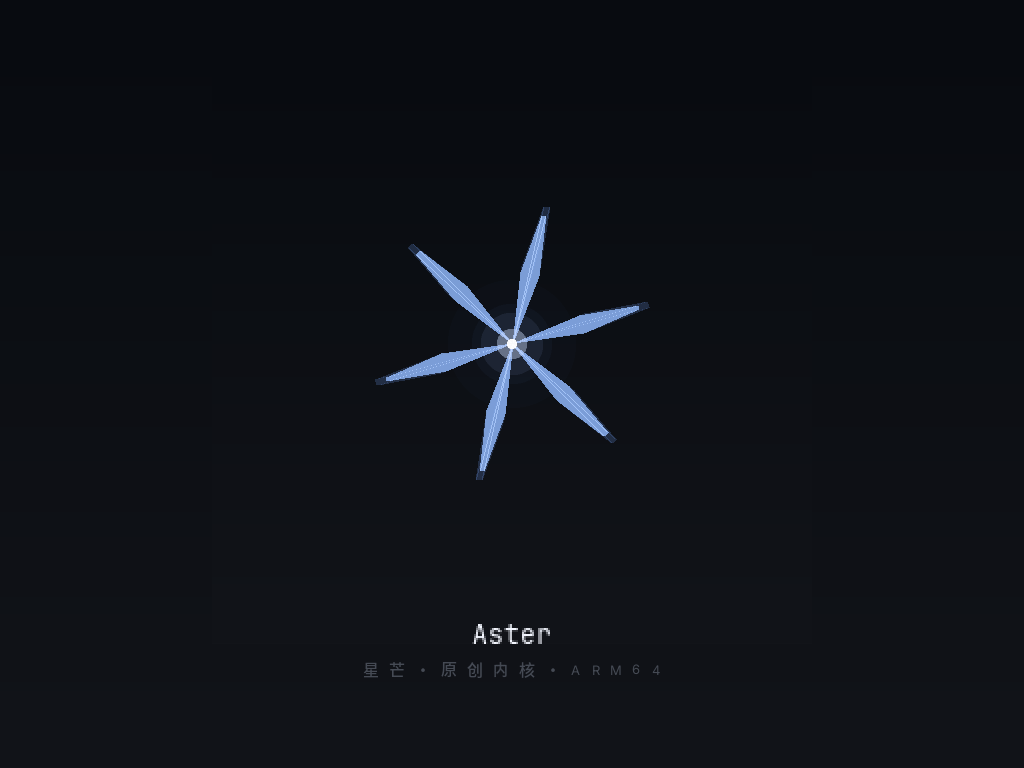
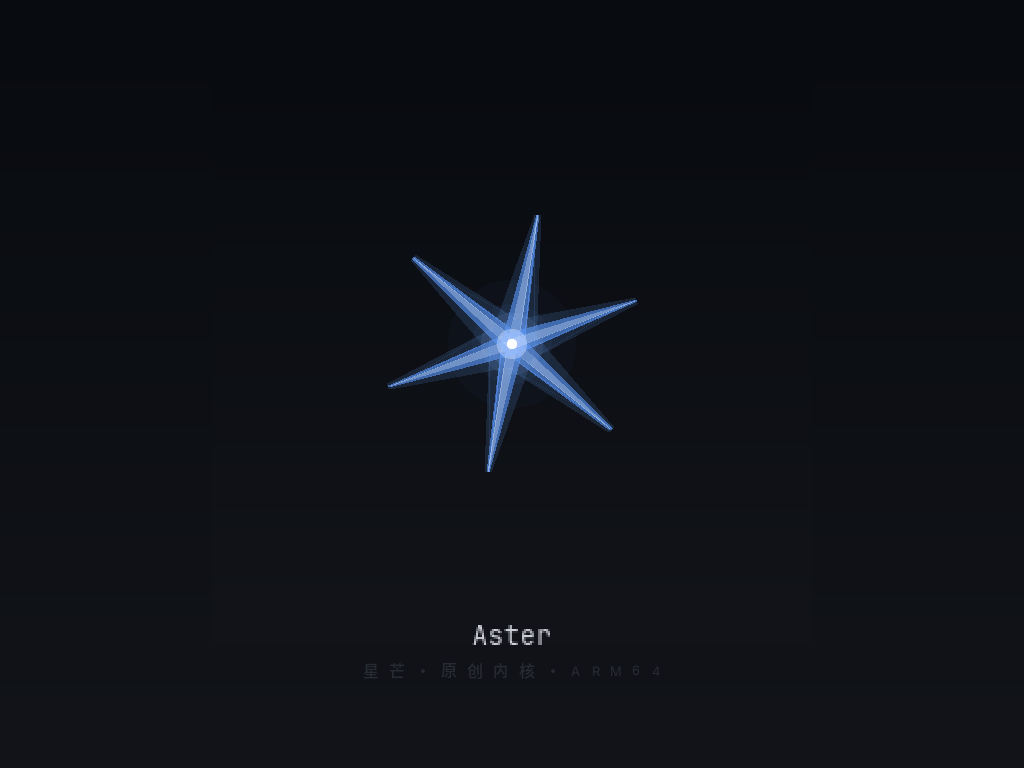
ui: boot animation pass 2 - layered blades, growth head, per-blade scatter, brand rise; version 0.8; header EX3 short fingerprint

Changed region(s): [[0.375, 0.2812, 0.625, 0.625], [0.4688, 0.8125, 0.5312, 0.8438], [0.4375, 0.8438, 0.4688, 0.875]]

diff --git a/kernel/src/bootanim.rs b/kernel/src/bootanim.rs
@@ -85,29 +85,52 @@ fn tri(ax: i32, ay: i32, bx: i32, by: i32, cx: i32, cy: i32, color: u32, a: u32)
     }
 }
 
-/// 单根光针：根部在中心，尖端在 r，中段略宽、尖端极细
-fn blade(cx: i32, cy: i32, ang: i32, r: i32, color: u32, a: u32) {
+/// 一段花瓣：沿半径 r0→r1，半宽从 w0 收到 w1
+fn seg(cx: i32, cy: i32, ang: i32, r0: i32, r1: i32, w0: i32, w1: i32, color: u32, a: u32) {
+    if a == 0 || r1 <= r0 {
+        return;
+    }
     let c = cos_deg(ang);
     let s = sin_deg(ang);
     let nx = -s;
     let ny = c;
-    let w_tip = (r / 34).max(1);
-    let w_mid = (r / 13).max(2);
-    let tipx = cx + r * c / 1000;
-    let tipy = cy + r * s / 1000;
-    let mx = cx + r * 55 / 100 * c / 1000;
-    let my = cy + r * 55 / 100 * s / 1000;
-    let t1x = tipx + w_tip * nx / 1000;
-    let t1y = tipy + w_tip * ny / 1000;
-    let t2x = tipx - w_tip * nx / 1000;
-    let t2y = tipy - w_tip * ny / 1000;
-    let m1x = mx + w_mid * nx / 1000;
-    let m1y = my + w_mid * ny / 1000;
-    let m2x = mx - w_mid * nx / 1000;
-    let m2y = my - w_mid * ny / 1000;
-    tri(cx, cy, m1x, m1y, t1x, t1y, color, a);
-    tri(cx, cy, t1x, t1y, t2x, t2y, color, a);
-    tri(cx, cy, t2x, t2y, m2x, m2y, color, a);
+    let ax = cx + r0 * c / 1000;
+    let ay = cy + r0 * s / 1000;
+    let bx = cx + r1 * c / 1000;
+    let by = cy + r1 * s / 1000;
+    let a1x = ax + w0 * nx / 1000;
+    let a1y = ay + w0 * ny / 1000;
+    let a2x = ax - w0 * nx / 1000;
+    let a2y = ay - w0 * ny / 1000;
+    let b1x = bx + w1 * nx / 1000;
+    let b1y = by + w1 * ny / 1000;
+    let b2x = bx - w1 * nx / 1000;
+    let b2y = by - w1 * ny / 1000;
+    tri(a1x, a1y, b1x, b1y, b2x, b2y, color, a);
+    tri(a1x, a1y, b2x, b2y, a2x, a2y, color, a);
+}
+
+/// 一层瓣：从 r0 到 r1，宽度沿半径连续收窄，按半径切段绘制避免长条填充误差
+fn layer(cx: i32, cy: i32, ang: i32, r0: i32, r1: i32, wmid: i32, color: u32, a: u32) {
+    let len = r1 - r0;
+    if len <= 2 || a == 0 {
+        return;
+    }
+    let w0 = wmid.max(1);
+    let w1 = (wmid / 6).max(1);
+    seg(cx, cy, ang, r0, r1, w0, w1, color, a);
+}
+
+/// 一根完整的尖：宽光晕 + 主色 + 细亮芯，三层叠加出边缘柔和、中心发亮的效果
+fn blade_at(cx: i32, cy: i32, ang: i32, r0: i32, r1: i32, k: u32) {
+    let len = r1 - r0;
+    if len <= 2 || k == 0 {
+        return;
+    }
+    let wb = (len / 11).max(4);
+    layer(cx, cy, ang, r0, r1, wb * 2, 0x4f7ec0, (52 * k) / 255);
+    layer(cx, cy, ang, r0, r1, wb, fb::ACCENT, (150 * k) / 255);
+    layer(cx, cy, ang, r0, r1, (wb / 2).max(1), 0xdaeaff, (80 * k) / 255);
 }
 
 fn grad(top: u32, bot: u32, y: i32, y0: i32, h: i32) -> u32 {
@@ -133,24 +156,26 @@ fn frame(el: i32, w: u32, h: u32, cx: i32, cy: i32, bs: i32) {
         grad(0x080b10, 0x121419, by, by, bs),
         grad(0x080b10, 0x121419, by + bs, by, bs),
     );
-    // 只留贴身的一小团光雾：大半径同心圆会有可见台阶，反而掉质感
-    fb::circle(cx, cy, 64, 0x456fb0, 7);
-    fb::circle(cx, cy, 40, 0x5a86c8, 12);
+    // 贴身一小团光雾，随动画轻微呼吸
+    let pulse = sin_deg(el * 180 / 2400) + 1000;
+    let pa = (6 + pulse * 5 / 2000) as u32;
+    fb::circle(cx, cy, 64, 0x456fb0, pa);
+    fb::circle(cx, cy, 40, 0x5a86c8, pa + 6);
 
-    // 六个尖依次生长
+    // 六个尖依次生长；生长中尖端带一个光点当"笔尖"，长完后光点收掉
     let mut k = 0;
     while k < 6 {
-        let t_k = ((el - 200 - k * 90).clamp(0, 640) as i32) * 1000 / 640;
-        if t_k > 0 {
+        let t_k = ((el - 200 - k * 90).clamp(0, 660) as i32) * 1000 / 660;
+        if t_k > 0 && el < 2100 {
             let ease = 1000 - (1000 - t_k) * (1000 - t_k) / 1000;
             let rk = 6 + 126 * ease / 1000;
             let ang = k * 60 + el * 22 / 1000;
-            blade(cx, cy, ang, rk * 108 / 100, 0x6f9cf0, 55);
-            blade(cx, cy, ang, rk, fb::ACCENT, 178);
-            blade(cx, cy, ang, rk, 0xdceaff, 42);
-            // 尖端一小段提亮，让"光"有方向
-            if rk > 40 {
-                blade(cx, cy, ang, rk, 0xf4f8ff, 46);
+            blade_at(cx, cy, ang, 0, rk, 255);
+            if t_k < 950 && rk > 10 {
+                let tipx = cx + rk * cos_deg(ang) / 1000;
+                let tipy = cy + rk * sin_deg(ang) / 1000;
+                fb::circle(tipx, tipy, 5, 0x9dc0ff, 46);
+                fb::circle(tipx, tipy, 2, 0xffffff, 215);
             }
         }
         k += 1;
@@ -162,15 +187,23 @@ fn frame(el: i32, w: u32, h: u32, cx: i32, cy: i32, bs: i32) {
     fb::circle(cx, cy, (core + 10) as u32, 0xcfdfff, 105);
     fb::circle(cx, cy, core as u32, 0xffffff, 245);
 
-    // 散开
+    // 最后 200ms 让背景逐渐融到桌面色，切换时不硬跳
+    if el > 2200 {
+        let fa = ((el - 2200).clamp(0, 200) * 200 / 200) as u32;
+        fb::blend_rect(0, 0, w, h, 0x1a1d22, fa);
+    }
+
+    // 收尾：六瓣各自沿自己的方向抽出去，同时缩短、淡出 —— 比整体放大更像"散开"
     if el > 2100 {
-        let s = (el - 2100).clamp(0, 240) as i32 * 1000 / 240;
-        let r2 = 132 + 150 * s / 1000;
-        let a2 = (175 - 175 * s / 1000) as u32;
-        if a2 > 3 {
+        let s = (el - 2100).clamp(0, 300) as i32 * 1000 / 300;
+        let travel = 210 * s / 1000;
+        let len = 132 * (1000 - s) / 1000;
+        let k_a = 255 - 255 * s / 1000;
+        if k_a > 3 && len > 2 {
             let mut k = 0;
             while k < 6 {
-                blade(cx, cy, k * 60 + el * 22 / 1000, r2, fb::ACCENT, a2);
+                let ang = k * 60 + el * 22 / 1000;
+                blade_at(cx, cy, ang, travel, travel + len, k_a as u32);
                 k += 1;
             }
         }
@@ -180,7 +213,8 @@ fn frame(el: i32, w: u32, h: u32, cx: i32, cy: i32, bs: i32) {
     let t_a1 = ((el - 1600).clamp(0, 360) as i32 * 255 / 360) as u32;
     let t_a2 = ((el - 1820).clamp(0, 360) as i32 * 255 / 360) as u32;
     if t_a1 > 3 {
-        let ty = (h as i32 - 150) as u32;
+        let up = (8 * (255 - t_a1) / 255) as i32;
+        let ty = (h as i32 - 150 + up) as u32;
         let bg1 = grad(0x080b10, 0x121419, ty as i32, 0, h as i32);
         let name = "Aster";
         let tw = fb::text_len(name, 2);

diff --git a/kernel/src/fb.rs b/kernel/src/fb.rs
@@ -1104,7 +1104,7 @@ pub fn cache_wall(ex3_short: &str) {
     fill_rect(0, 36, W, 1, 0x26292f);
     let mut hx = draw_text_ui(16, 10, "Aster", TEXT) + 10;
     hx = draw_text_ui(hx, 10, "星芒", TEXT2) + 14;
-    draw_text_ui(hx, 11, "v0.6  ARM64", DIM);
+    draw_text_ui(hx, 11, "v0.8  ARM64", DIM);
     let right = text_len_ui("EX3 ") + text_len_ui(ex3_short);
     draw_text_ui(W - right - 16, 11, "EX3 ", DIM);
     draw_text_ui(W - text_len_ui(ex3_short) - 16, 11, ex3_short, OK);
@@ -1390,7 +1390,7 @@ fn draw_sys_body(w: Win) {
     let mut y = (w.y + TITLE_H as i32 + 18) as u32;
     let (tasks, kernel_kb) = unsafe { (LAST_TASKS, LAST_KB) };
     let (used_pages, _t, _) = crate::frame::stats();
-    kv(x, y, "版本", "Aster 0.7  ARM64", TEXT);
+    kv(x, y, "版本", "Aster 0.8  ARM64", TEXT);
     y += 26;
     let kb_b = num_str(kernel_kb);
     kv(x, y, "内核", s_of(&kb_b), TEXT);

diff --git a/kernel/src/main.rs b/kernel/src/main.rs
@@ -66,9 +66,9 @@ fn banner() {
     println!();
     match crate::rtc::local() {
         Some((y, mo, d, h, mi, _s)) => {
-            println!("  Aster 0.6   ARM64   {:04}-{:02}-{:02} {:02}:{:02} CST", y, mo, d, h, mi)
+            println!("  Aster 0.8   ARM64   {:04}-{:02}-{:02} {:02}:{:02} CST", y, mo, d, h, mi)
         }
-        None => println!("  Aster 0.6   ARM64"),
+        None => println!("  Aster 0.8   ARM64"),
     }
 }
 
@@ -221,7 +221,8 @@ pub extern "C" fn kernel_main(bi: *const BootInfo) -> ! {
         boot_trusted: info.trusted == 1,
     });
 
-    fb::cache_wall(&ex3::EX3_TAG[..13]);
+    let tag = ex3::EX3_TAG;
+    fb::cache_wall(&tag[tag.len().saturating_sub(8)..]);
     shell::render_dashboard();
     shell::run()
 }

diff --git a/docs/architecture.md b/docs/architecture.md
@@ -931,3 +931,19 @@ $ apk axml
 **顺带修掉一个真 bug**。`fb::circle` 里把参数 `cx/cy` 遮成了像素坐标，写屏时用的是 `3*dx-3*r+1`，所有圆整体错位，半径越大偏得越远。修好之后桌面的三色点、状态灯、dock 圆点才落在该在的位置。
 
 **取证**：`bootframe <ms>` 把动画任意时刻静态画出来并停在屏幕上。内部置一个 `HOLD` 标志让 `ui::tick` 停止重绘 —— 否则下一拍 `render_dashboard` 就把这一帧盖掉了。QEMU 的 ramfb 在 `-display none` 下运行中抓 `screendump` 会拿到撕裂帧，所以静态帧是唯一可靠的取证手段；真机 HDMI 输出不受影响。
+
+### 32.1 第二版打磨
+
+第一版能看，但细看有三处不足：瓣像"刀片"（三块三角硬拼，边缘见台阶）、收尾是整体放大（像球在膨胀，不像星芒散开）、字标是原地淡入（缺方向感）。第二版逐条换掉：
+
+| 项 | 第二版做法 |
+|----|-----------|
+| 瓣形 | 单瓣用三个共轴四边形叠画：宽光晕层（0x4f7ec0，α52）+ 主色层（ACCENT，α150）+ 细亮芯（0xdaeaff，α80）。层宽不同，边缘互相错开，天然柔和，不再有单层三角的硬台阶 |
+| 生长感 | 每瓣生长期间在尖端跟一个"笔尖"光点（r5 淡蓝 + r2 纯白），长到 95% 时收掉 —— 视线知道光往哪走 |
+| 收尾 | 六瓣各自沿自己的方向往外抽（travel 0→210px）、长度缩到 0、亮度归零，中心留核和光雾；最后 200ms 背景混到 0x1a1d22，接桌面不跳 |
+| 字标 | 淡入同时从下方 8px 上浮（`up = 8*(255-α)/255`），落位时才配得上"归位"这个词 |
+| 光雾 | 半径和透明度随 sin 轻微呼吸（α 6..11），静止的圆环不再显得是贴图 |
+
+踩到的坑：给三角做"端点像素半透明"的伪抗锯齿，细长条上会碎成梳齿（端点在细瓣上占了大半宽度），试了一版直接回退；真正让边缘柔的是**多层不同宽度叠加**，不是端点打折。
+
+版本号同步升到 **0.8**（顶栏、系统面板、串口启动行三处）。顺带修了顶栏 EX3 指纹：原来传 `EX3_TAG[..13]` 再拼一个 "EX3 " 前缀，重复且溢出屏幕右边被裁，改成取末 8 位（如 `9337BDCD`）。

diff --git a/README.md b/README.md
@@ -15,7 +15,14 @@
 
 ---
 
-## 已经验证能跑的部分
+## 开机动画
+
+冷启动后先播 2.4s 的星芒动画：六个尖依次从黑场里长出来（尖端跟一个光点），缓转，字标淡入上浮，最后六瓣各自散开、画面融到桌面色 —— 全程无外部素材，用内核自带的光栅原语逐像素画。
+
+![boot animation](docs/boot-anim.png)
+
+无头环境下用 `bootframe <ms>` 定格任意时刻取证（`-display none` 下运行中抓屏必撕裂，不能用）。
+已经验证能跑的部分
 
 | 能力 | 状态 | 验证方式 |
 | --- | --- | --- |
